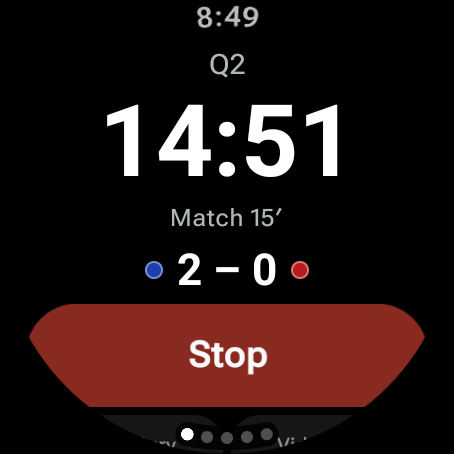
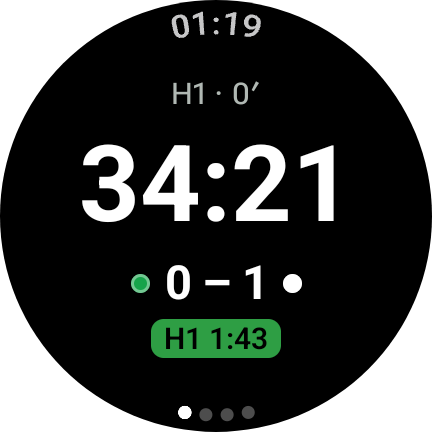
feat(landing): the real app in the hero, and the right project board
The screenshots were from an older build: the watch one showed a "Match
15'" line and a Stop button that only appears now if you turn the
on-screen clock button on, and the phone one didn't show what the app
produces. Both are from 1.0.0 on real devices: the watch mid-half with a
suspension counting down, and a finished match with its timeline. The
frames take each image's own size rather than the old hard-coded ones,
and the alt text says what's in them.

The project board is a user project, so its repository-scoped address
was wrong. Fixed on the landing page and in the issue-form links.

diff --git a/landing/src/components/parts.tsx b/landing/src/components/parts.tsx
@@ -97,11 +97,11 @@ export function RequestAccess({ stage }: { stage: string }) {
 }
 
 /** A round watch face showing a real screenshot from the app. */
-export function WatchFrame({ src, alt }: { src: string; alt: string }) {
+export function WatchFrame({ src, alt, size = 432 }: { src: string; alt: string; size?: number }) {
   return (
     <div className="relative size-56 shrink-0 rounded-full bg-neutral-900 p-3 shadow-xl ring-1 ring-black/10 sm:size-64">
       <div className="size-full overflow-hidden rounded-full bg-black">
-        <Image src={src} alt={alt} width={454} height={454} className="size-full object-cover" />
+        <Image src={src} alt={alt} width={size} height={size} className="size-full object-cover" />
       </div>
       {/* The two buttons of a Galaxy Watch: the lower one starts and stops the clock. */}
       <span className="absolute top-[28%] -right-1.5 h-8 w-2 rounded-r-md bg-neutral-700" />
@@ -111,11 +111,11 @@ export function WatchFrame({ src, alt }: { src: string; alt: string }) {
 }
 
 /** A phone outline showing a real screenshot from the app. */
-export function PhoneFrame({ src, alt }: { src: string; alt: string }) {
+export function PhoneFrame({ src, alt, width = 945, height = 2048 }: { src: string; alt: string; width?: number; height?: number }) {
   return (
     <div className="w-52 shrink-0 rounded-[2.2rem] bg-neutral-900 p-2 shadow-xl ring-1 ring-black/10 sm:w-60">
       <div className="overflow-hidden rounded-[1.8rem] bg-white">
-        <Image src={src} alt={alt} width={1080} height={2400} className="h-auto w-full" />
+        <Image src={src} alt={alt} width={width} height={height} className="h-auto w-full" />
       </div>
     </div>
   );

diff --git a/landing/src/app/page.tsx b/landing/src/app/page.tsx
@@ -109,9 +109,9 @@ export default function Home() {
             </ul>
           </div>
           <div className="flex items-end justify-center gap-6">
-            <WatchFrame src="/screens/watch-match.png" alt="The timing page on a Wear OS watch: period, clock, score and a Stop button" />
+            <WatchFrame src="/screens/watch-match.png" alt="The timing page on a Wear OS watch: the half, the clock counting down, the score, and a suspension with 1:43 left" />
             <div className="hidden sm:block">
-              <PhoneFrame src="/screens/phone-match.png" alt="A match on the phone app" />
+              <PhoneFrame src="/screens/phone-match.jpg" alt="A finished match on the phone app: the score, and a timeline of goals, penalty corners and cards" />
             </div>
           </div>
         </Container>

diff --git a/landing/src/content.ts b/landing/src/content.ts
@@ -24,7 +24,7 @@ export const SITE = {
 export const GITHUB_URL = `https://github.com/${SITE.githubRepo}`;
 
 /** The GitHub project board, for anyone who wants to follow the work. */
-export const PROJECT_BOARD_URL = `${GITHUB_URL}/projects/11/views/1`;
+export const PROJECT_BOARD_URL = "https://github.com/users/KingCharlesVI/projects/11/views/1";
 export const ISSUES_URL = `${GITHUB_URL}/issues`;
 /** The issue forms in .github/ISSUE_TEMPLATE, so a link opens the right one already chosen. */
 export const BUG_REPORT_URL = `${ISSUES_URL}/new?template=bug_report.yml`;
